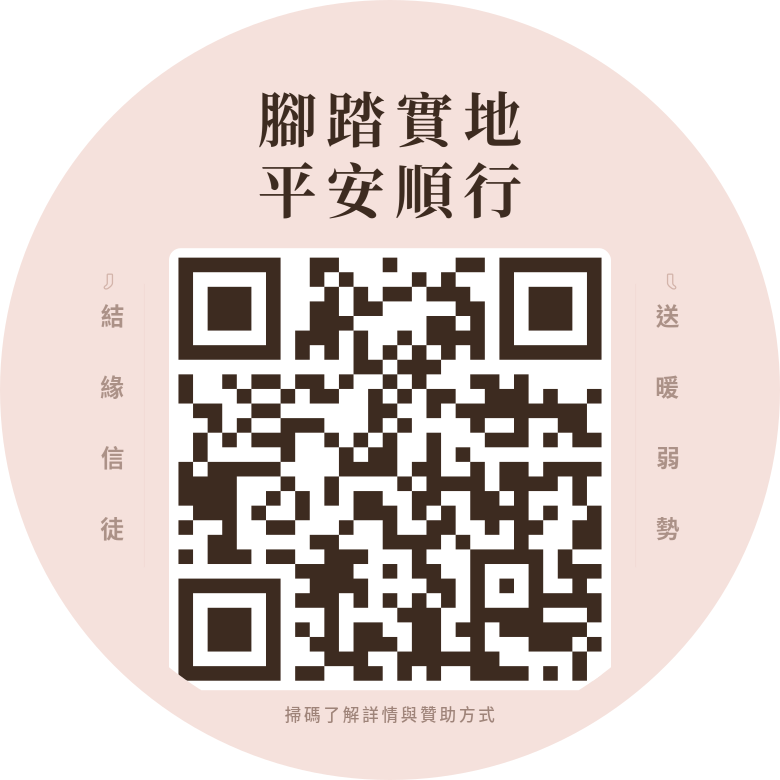
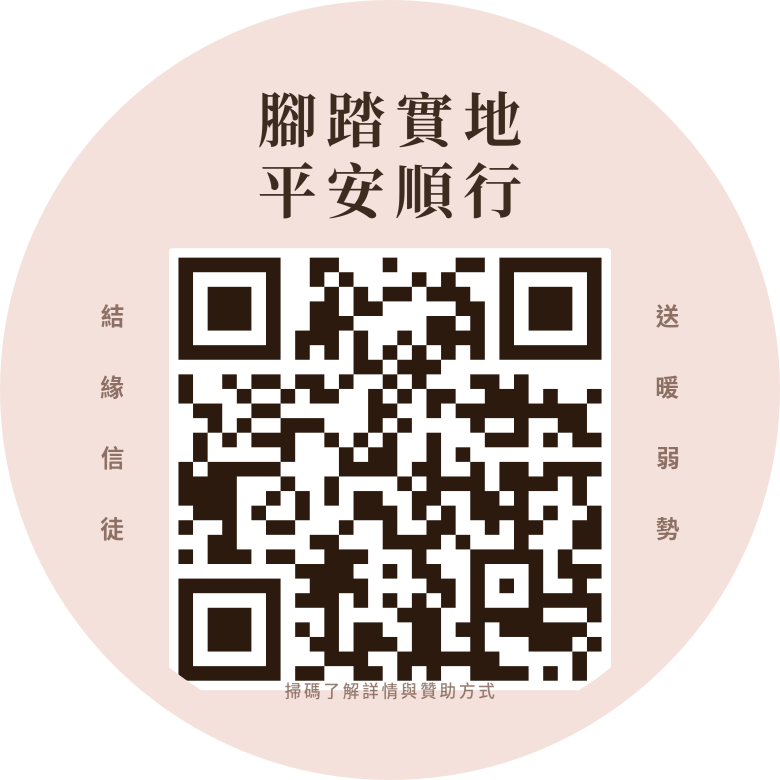
feat: final sticker (print-master), palanquin SVG illustration in hero + sticker section with design story

diff --git a/index.html b/index.html
@@ -221,6 +221,10 @@ section p strong{color:var(--b8)}
     <div class="stat-item"><div class="stat-num">400</div><div class="stat-label">公里進香路</div></div>
   </div>
   <div class="scroll-hint">向下了解更多<span>↓</span></div>
+  <!-- 粉紅超跑插圖 -->
+  <div style="margin-top:24px;opacity:.35">
+    <img src="palanquin.svg" alt="粉紅超跑 — 白沙屯媽祖鑾轎" style="width:280px;height:auto">
+  </div>
 </div></div>
 
 <div class="wrap">
@@ -300,7 +304,16 @@ section p strong{color:var(--b8)}
   <div style="display:flex;justify-content:center;padding:24px 0">
     <img src="sticker.png" alt="白沙屯媽祖進香結緣貼紙" style="width:220px;height:220px;border-radius:50%;box-shadow:0 4px 24px rgba(0,0,0,.08)">
   </div>
-  <div class="co">印刷規格：6cm 直徑圓形模切 · 透明 PET + 白墨打底 · CMYK 300 DPI · QR 導向本頁</div>
+  <div class="co">印刷規格：6cm 直徑圓形模切 · 透明 PET + 白墨打底 · CMYK 600 DPI · QR 導向本頁</div>
+
+  <!-- 粉紅超跑設計故事 -->
+  <div class="oq" style="margin-top:28px">
+    <div style="display:flex;justify-content:center;padding:0 0 16px">
+      <img src="palanquin.svg" alt="粉紅超跑插圖" style="width:220px;height:auto;opacity:.7">
+    </div>
+    <p style="font-size:14px">貼紙的早期版本中，原本有一幅<strong>「粉紅超跑」鑾轎插圖</strong>作為背景——那是信徒對白沙屯媽祖鑾轎的暱稱，因為鑾轎上覆蓋著粉紅色的遮雨布，加上進香速度極快，彷彿一輛粉色超跑在鄉間飛馳。</p>
+    <p style="font-size:14px">最終版貼紙為了確保 QR Code 在 6cm 的小面積上能被清晰掃描，我們將版面精簡到只保留祝福語、活動標語和 QR Code 三層核心元素。但「粉紅超跑」的精神從未離開——它就是這整場進香最動人的畫面：媽祖帶著信徒的虔誠，一路疾行在台灣西海岸的田間小路上。</p>
+  </div>
 </section>
 
 <!-- 偏鄉 -->
